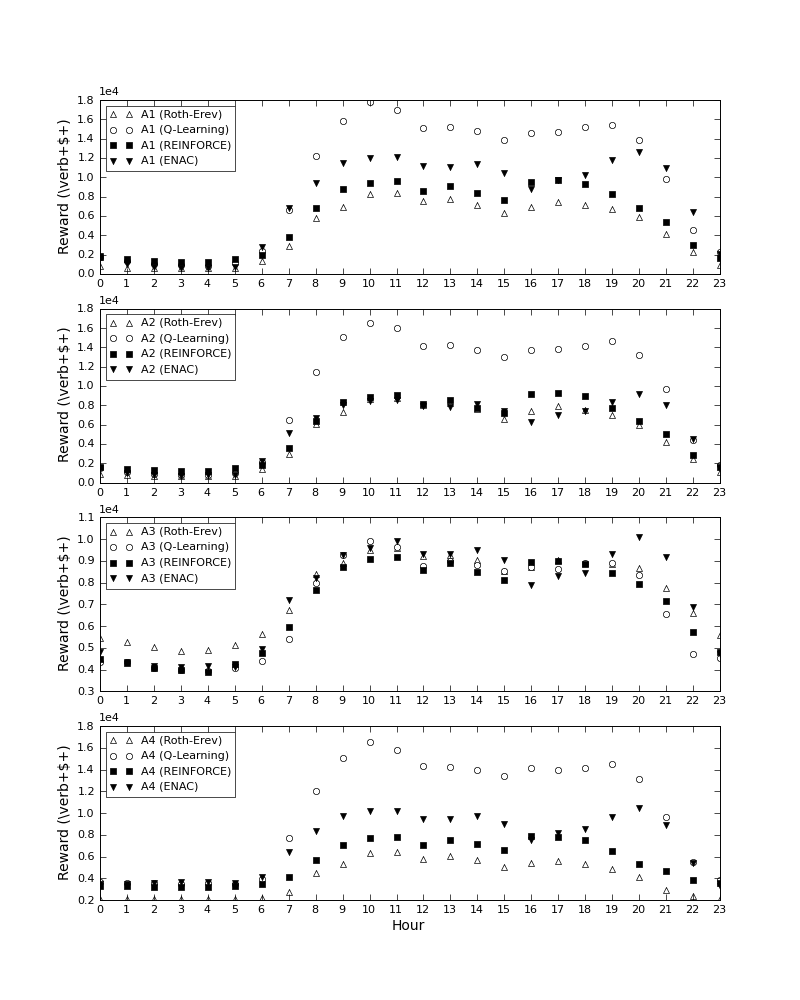
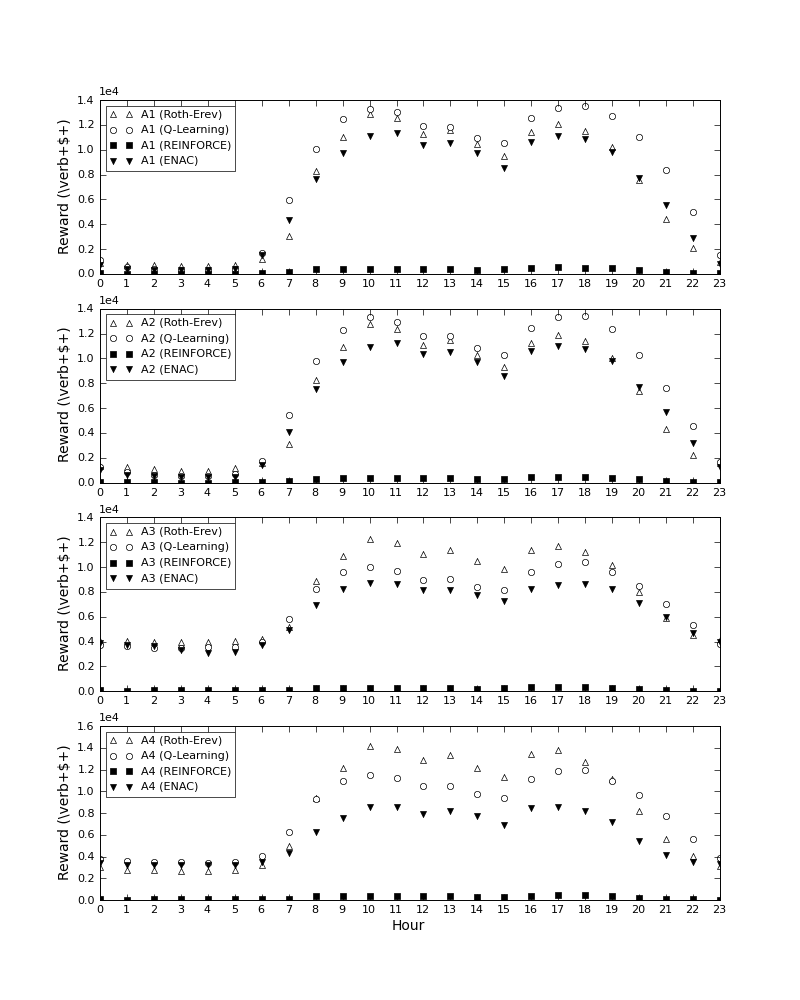
Setting up ex6.3 with 140,000 actions.

diff --git a/examples/pyreto/thesis/ex6_1.py b/examples/pyreto/thesis/ex6_1.py
@@ -35,7 +35,7 @@ auctionType = FIRST_PRICE#DISCRIMINATIVE
 profile = get_full_year() / 100.0
 cap = 9999.0
 nOffer = 2
-markups = (0, 30)
+markups = (0, 15, 30)
 withholds = (0, 20)
 markupMax = 30.0
 withholdMax = 20.0
@@ -248,7 +248,7 @@ def get_reinforce_experiment(case):
     initalSigma = 0.0
     sigmaOffset = -5.0
     decay = 0.995
-    learningRate = 0.01
+    learningRate = 0.005
 
     market = pyreto.SmartMarket(case, priceCap=cap, decommit=decommit,
                                 auctionType=auctionType,
@@ -378,10 +378,10 @@ def ex6_1():
 #    save_rewards(rewards, "passive", version)
     t_passive = time()
 
-#    rewards, results = run_years(get_re_experiment, case, roleouts,
-#                                 episodes, in_cloud)
-#    save_results(results, "StatefulRE", version)
-#    save_rewards(rewards, "StatefulRE", version)
+    rewards, results = run_years(get_re_experiment, case, roleouts,
+                                 episodes, in_cloud)
+    save_results(results, "StatefulRE", version)
+    save_rewards(rewards, "StatefulRE", version)
     t_re = time()
 
 #    rewards, results = run_years(get_q_experiment, case, roleouts,

diff --git a/examples/pyreto/thesis/plot.py b/examples/pyreto/thesis/plot.py
@@ -303,10 +303,10 @@ def plot6_X(minor=1):
     passive_reward_mean = mmread("./out/ex6_%d_passive_reward_mean.mtx" % minor)
     passive_reward_std = mmread("./out/ex6_%d_passive_reward_std.mtx" % minor)
 
-    re_reward_mean = mmread("./out/ex6_%d_rotherev_reward_mean.mtx" % minor)
-    re_reward_std = mmread("./out/ex6_%d_rotherev_reward_std.mtx" % minor)
-#    re_reward_mean = mmread("./out/ex6_%d_statefulre_reward_mean.mtx" % minor)
-#    re_reward_std = mmread("./out/ex6_%d_statefulre_reward_std.mtx" % minor)
+#    re_reward_mean = mmread("./out/ex6_%d_rotherev_reward_mean.mtx" % minor)
+#    re_reward_std = mmread("./out/ex6_%d_rotherev_reward_std.mtx" % minor)
+    re_reward_mean = mmread("./out/ex6_%d_statefulre_reward_mean.mtx" % minor)
+    re_reward_std = mmread("./out/ex6_%d_statefulre_reward_std.mtx" % minor)
 
     q_reward_mean = mmread("./out/ex6_%d_q_reward_mean.mtx" % minor)
     q_reward_std = mmread("./out/ex6_%d_q_reward_std.mtx" % minor)
@@ -512,6 +512,7 @@ def plot_profiles():
 if __name__ == "__main__":
 #    plot5_1()
 #    plot5_2()
-    plot6_1()
+    plot6_0()
+#    plot6_1()
 #    plot6_2()
 #    plot_profiles()
